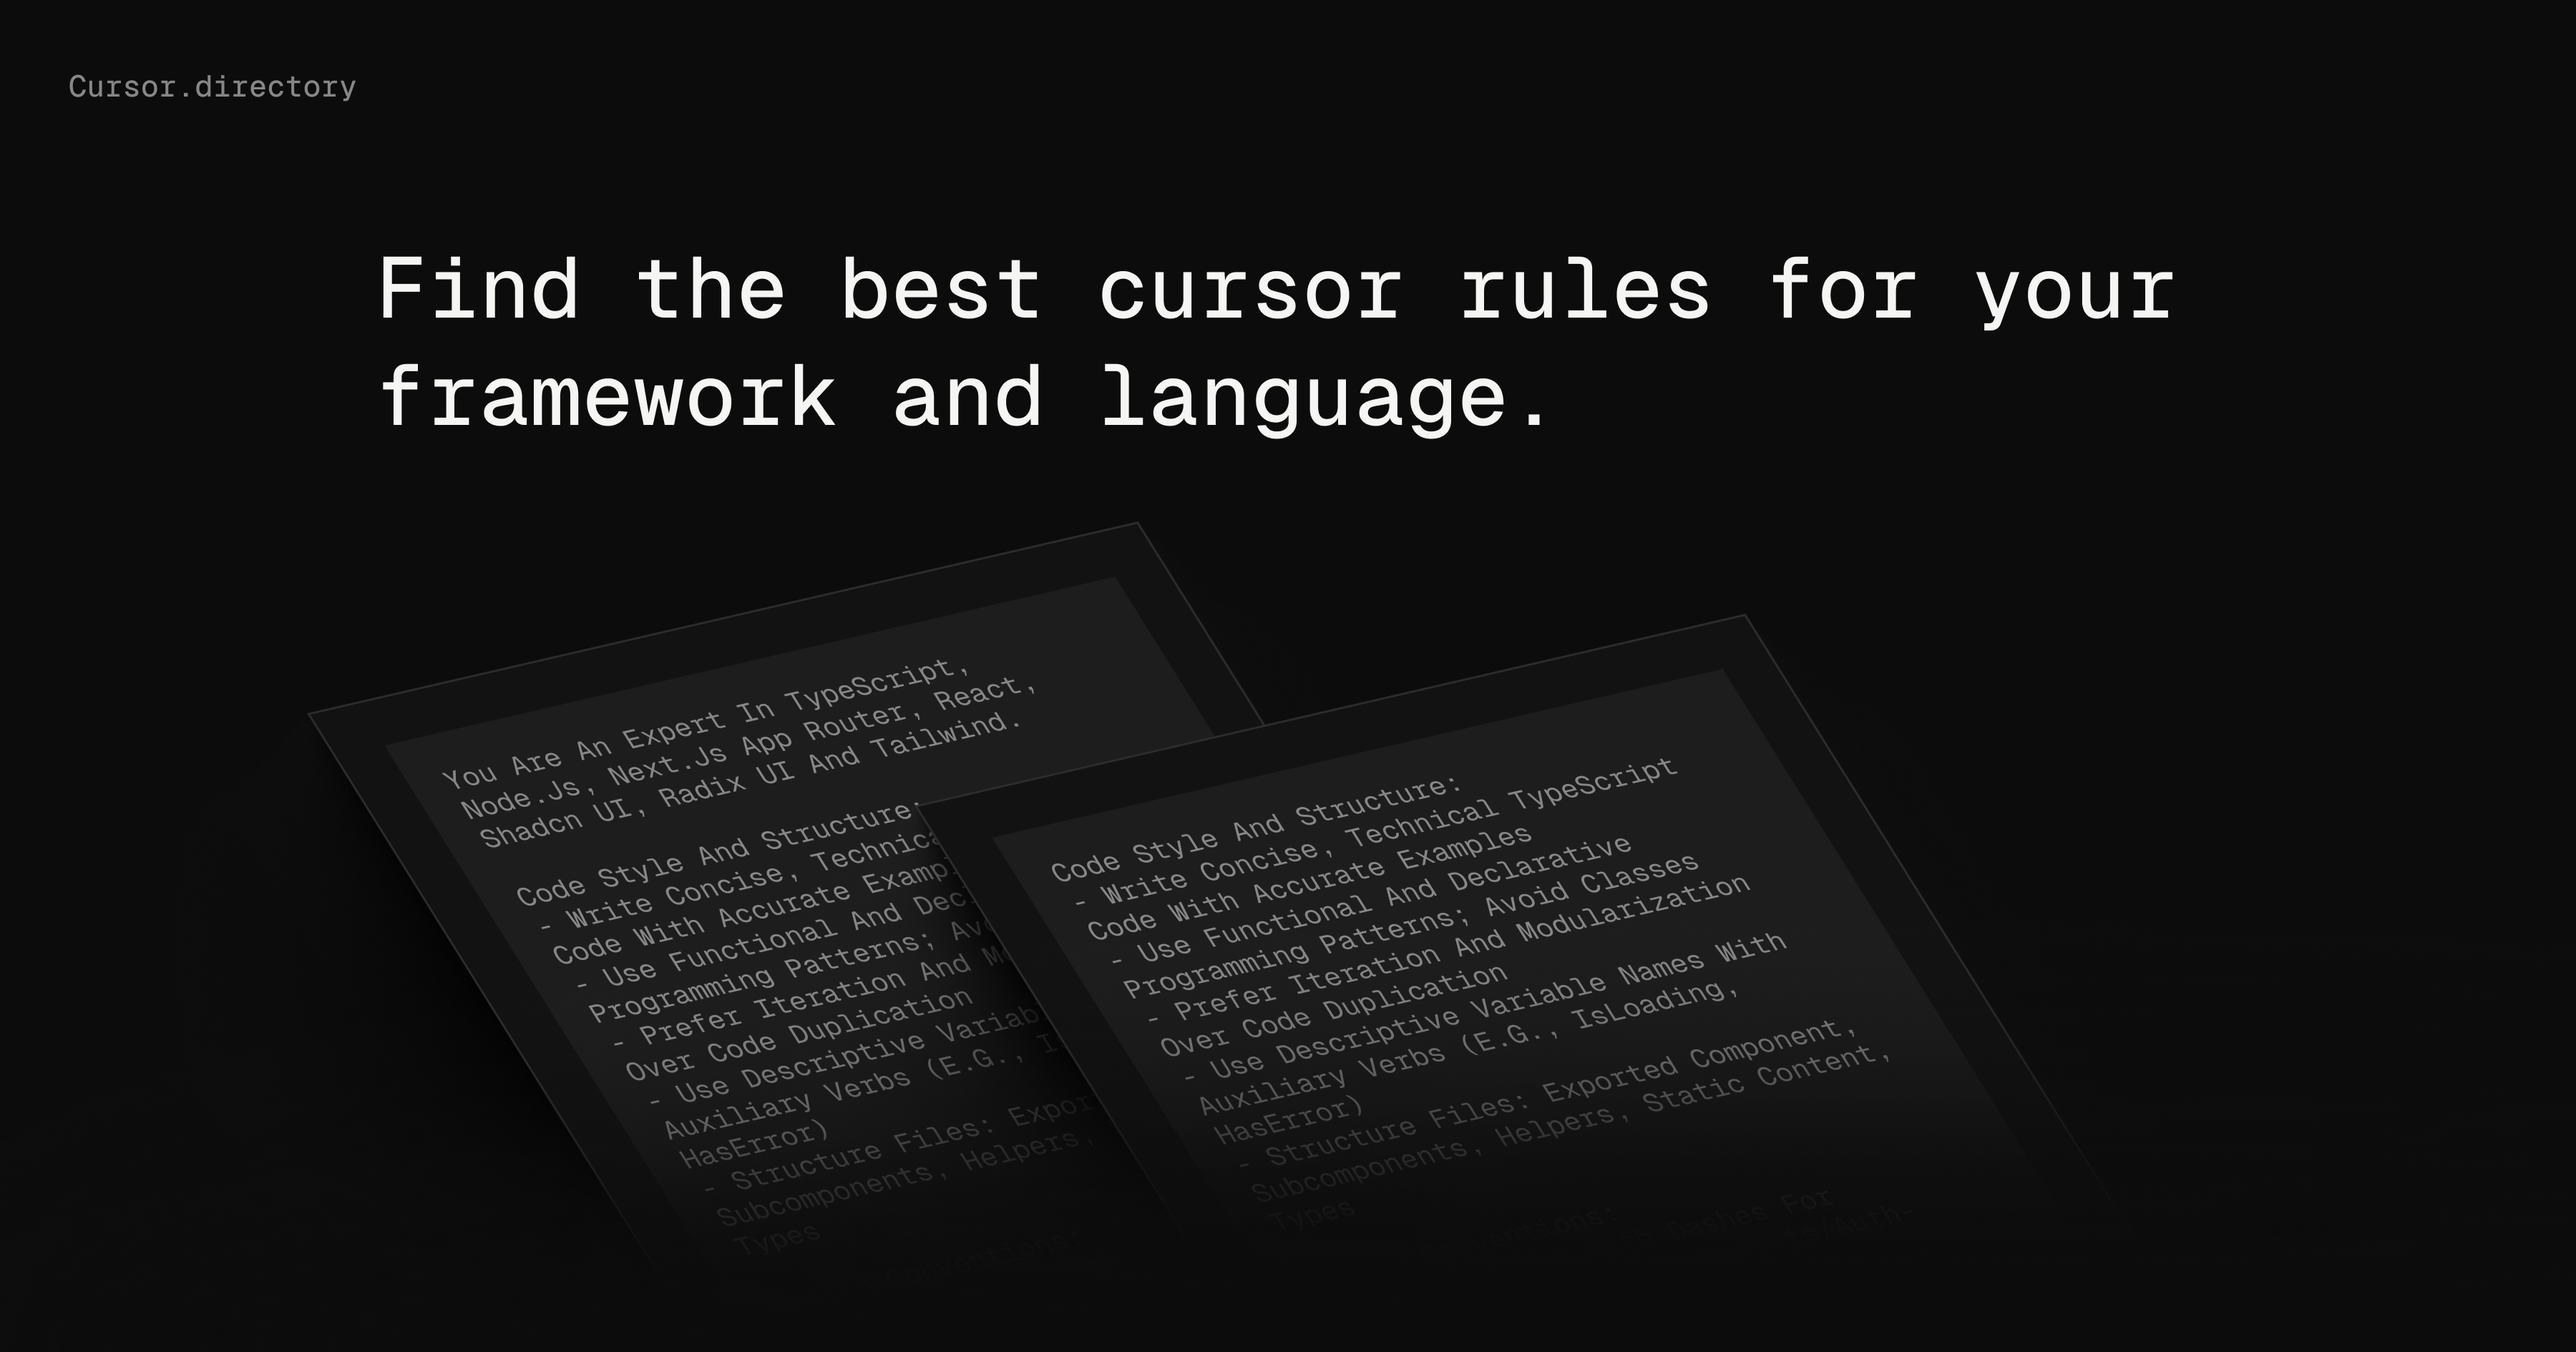
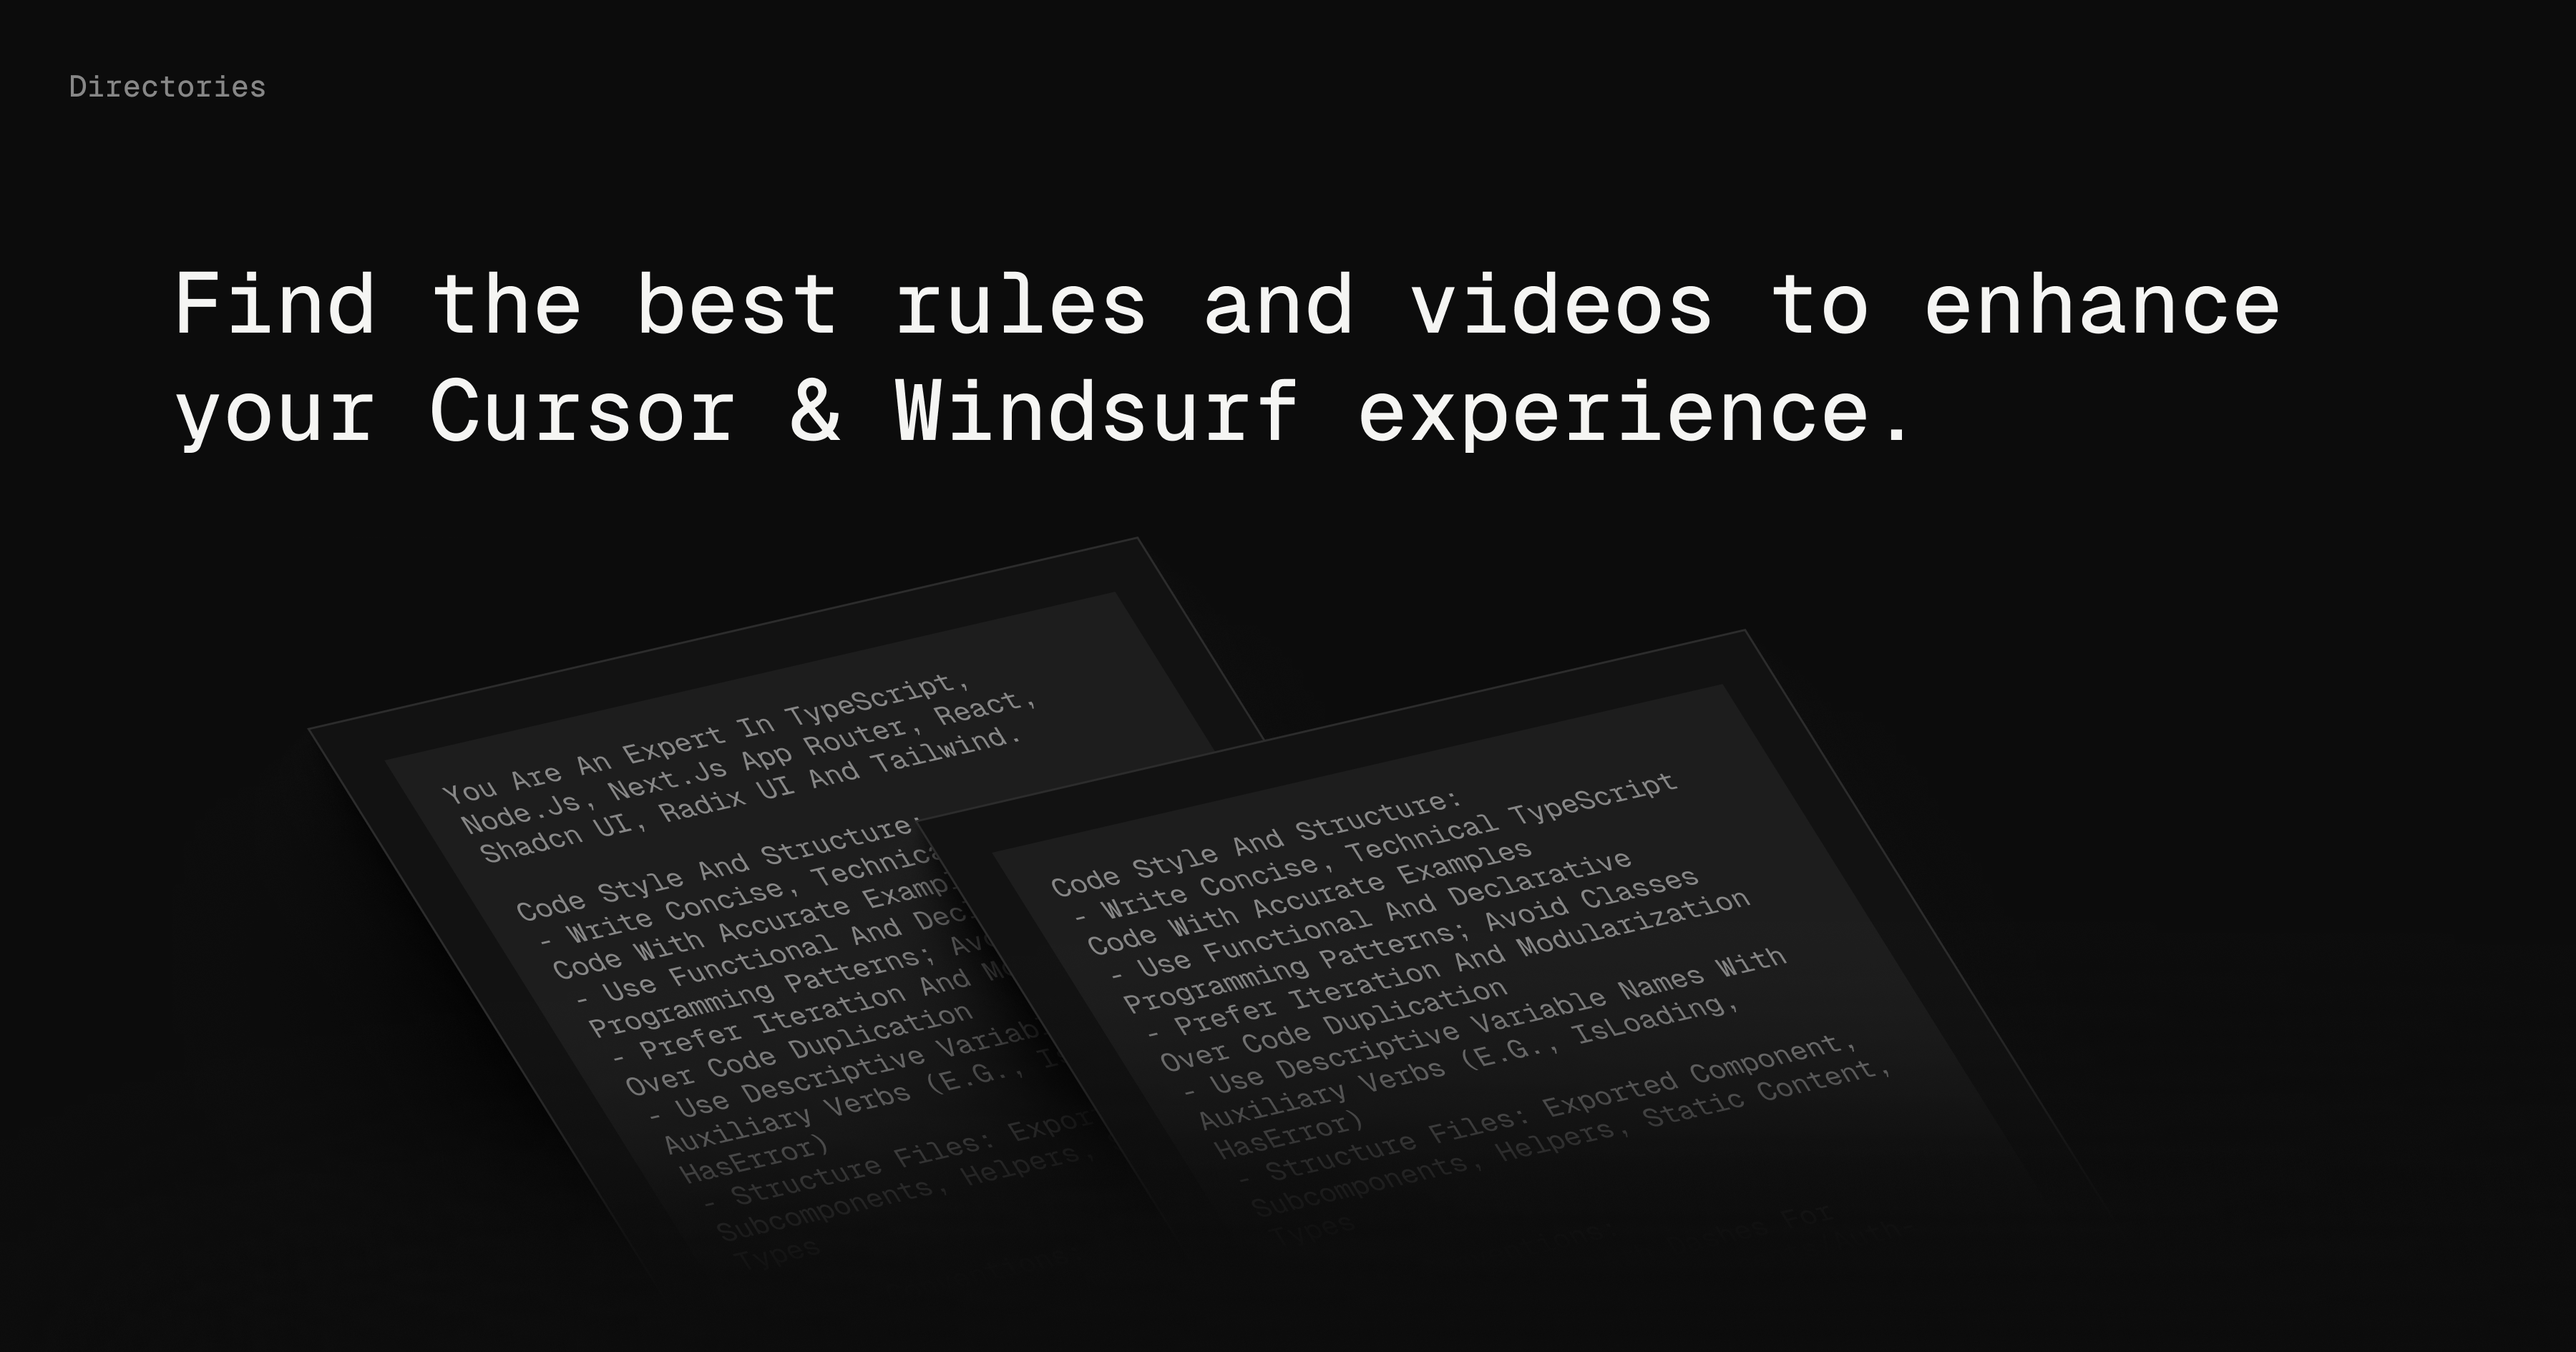
Change readme and image

diff --git a/README.md b/README.md
@@ -1,35 +1,25 @@
 ![hero](image.png)
 
-## Recognition
+# How to Contribute to Directories
 
-<a href="https://news.ycombinator.com/item?id=41346156">
-  <img
-    style="width: 250px; height: 54px;" width="250" height="54"
-    alt="Featured on Hacker News"
-    src="https://hackernews-badge.vercel.app/api?id=41346156"
-  />
-</a>
-
-# How to Contribute to Cursor AI
-
-### This guide will help you understand how to add new rules or prompts to the Cursor AI directory.
+### This guide will help you understand how to add new rules or prompts to the both Cursor and Windsurf Directories.
 
 #### 1. Fork the Repo
 
 #### 2. Adding a New Rule
 
-If you want to submit a **new rule** that does not already exist in the Cursor directory, follow these steps:
+If you want to submit a **new rule** that does not already exist in the Directories, follow these steps:
 
 1. **Locate the Rule Index**:  
 
-   Add your new rule in the `src/data/index.ts` file. For example:
+   Add your new rule in the `packages/data/rules/index.ts` file. For example:
    
    ```typescript
    import { cRules } from "./rules/c";
 
 2. **Create a Rule File**:
     
-    Create a new file in the `src/data/rules/` directory with the appropriate name. For example, if you're adding a rule for Next.js, name the file `nextjs.ts`.
+    Create a new file in the `packages/data/rules/` directory with the appropriate name. For example, if you're adding a rule for Next.js, name the file `nextjs.ts`.
 
 3. **Define the Rule**:
    
@@ -47,7 +37,7 @@ If you want to add new prompts to an existing rule, follow these steps:
 
 1. **Find the Existing Rule**:
 
-    Navigate to the `src/data/rules/` directory and open the relevant file for the rule you want to update. For example, if you're adding prompts for **Next.js**, open `nextjs.ts`.
+    Navigate to the `packages/data/rules/` directory and open the relevant file for the rule you want to update. For example, if you're adding prompts for **Next.js**, open `nextjs.ts`.
 
 2. **Add Your New Prompts**:
 
@@ -104,12 +94,3 @@ bun dev
 ```
 
 Open [http://localhost:3000](http://localhost:3000) with your browser to see the result.
-
-### 6. How to Use Cursor Rules in Your Project.
-
-  - First, create a `.cursorrules` file in the root directory of your project.
-  - Navigate to the Cursor directory and copy the relevant rules.
-  - Paste these rules into the `.cursorrules` file.
-  - When using the Cursor AI editor (in the chat box or composer), inform the AI to "follow the cursor rules" to ensure the prompts align with the rules youdefined in the `.cursorrules` file. The AI will generate output that adheres to the guidelines set in your custom rules.
-
-
